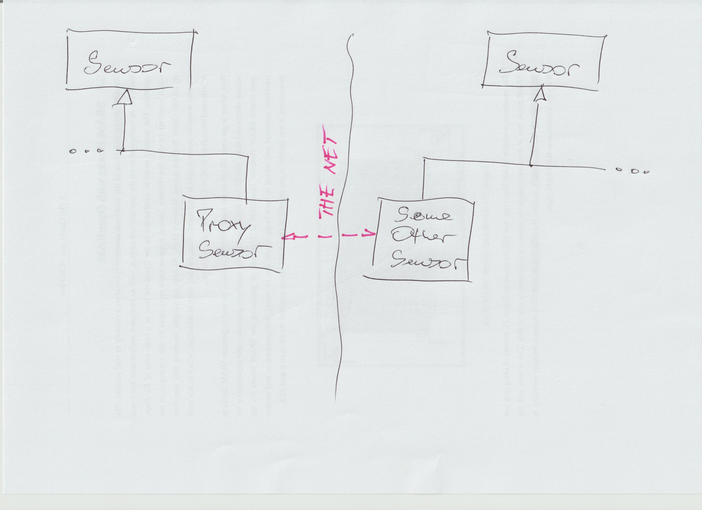
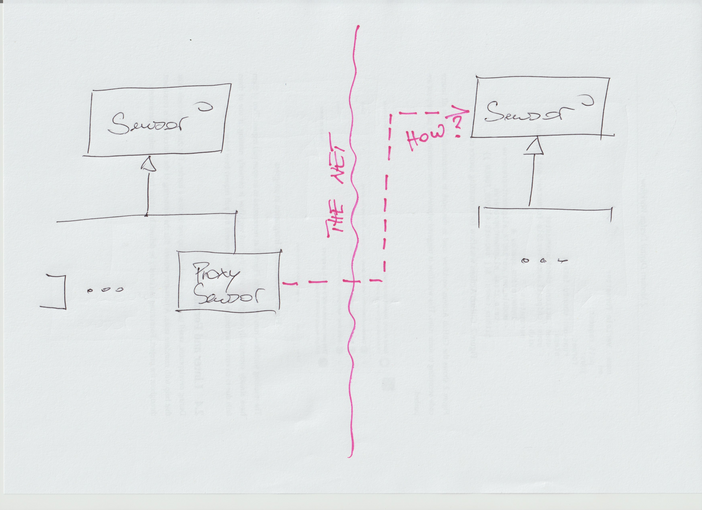
design patterns: describe sensor hierarchy,fix adapter

diff --git a/trainings/material/soup/cxx-design-patterns/exercises/code/tests/adapter-suite.cpp b/trainings/material/soup/cxx-design-patterns/exercises/code/tests/adapter-suite.cpp
@@ -1,18 +1,18 @@
 #include <gtest/gtest.h>
 
 #include <sensor-A.h>          // <--- company A's sensor interface
-#include <sensor-A-adapt-B.h>  // <--- to be implemented
-#include <sensor.h>            // <--- company B's sensor interface
-#include <sensor-const.h>      // <--- company B's most sophisticated sensor
+#include <sensor-A-const.h>    // <--- one of their sensors
+#include <sensor-A-adapter.h>  // <--- to be implemented
+#include <sensor.h>            // <--- our sensor interface
 
 TEST(adapter_suite, basic)
 {
-    // buy most sophisticated sensor from B, and see if it works
-    ConstantSensor sensor_from_b(36.5);
-    ASSERT_FLOAT_EQ(sensor_from_b.get_temperature(), 36.5);
+    // buy most sophisticated sensor from A, and see if it works
+    AConstantSensor sensor_from_a(36.5);
+    ASSERT_FLOAT_EQ(sensor_from_a.get_temperature_fahrenheit(), 36.5);
 
-    // adapt it into A's framework, converting its Celsius measurement
-    // into Fahrenheit
-    SensorB_Adapter b_adapter(&sensor_from_b);
-    ASSERT_FLOAT_EQ(b_adapter.get_temperature(), 36.5 * 5/9 + 32);
+    // adapt it into our hierarchy, converting its Fahrenheit
+    // measurement into Celsius
+    ASensor_Adapter a_adapter(&sensor_from_a);
+    ASSERT_FLOAT_EQ(a_adapter.get_temperature(), (36.5 - 32) * 5/9);
 }

diff --git a/trainings/material/soup/cxx-design-patterns/exercises/code/library/sensor-A-adapter.h b/trainings/material/soup/cxx-design-patterns/exercises/code/library/sensor-A-adapter.h
@@ -1,0 +1,21 @@
+#pragma once
+
+#include "sensor-A.h"
+#include "sensor.h"
+
+#include <memory>
+
+
+class ASensor_Adapter : public Sensor
+{
+public:
+    ASensor_Adapter(ASensor* adaptee) : _adaptee(adaptee) {}
+    double get_temperature()
+    {
+        double fahrenheit = _adaptee->get_temperature_fahrenheit();
+        return (fahrenheit -32) * 5/9;
+    }
+
+private:
+    ASensor* _adaptee;
+};

diff --git a/trainings/material/soup/cxx-design-patterns/exercises/code/library/sensor-A-const.h b/trainings/material/soup/cxx-design-patterns/exercises/code/library/sensor-A-const.h
@@ -1,0 +1,21 @@
+#pragma once
+
+#include "sensor-A.h"
+
+
+class AConstantSensor : public ASensor
+{
+public:
+    AConstantSensor(double value)
+    : _value(value) {}
+
+    double value() const { return _value; }
+
+    virtual double get_temperature_fahrenheit()
+    {
+        return _value;
+    }
+
+private:
+    double _value;
+};

diff --git a/trainings/material/soup/cxx-design-patterns/exercises/code/library/sensor-A.h b/trainings/material/soup/cxx-design-patterns/exercises/code/library/sensor-A.h
@@ -1,10 +1,8 @@
 #pragma once
 
-class SensorA
+class ASensor
 {
 public:
-    virtual ~SensorA() {}
-
-    // returns degrees Fahrenheit
-    virtual double get_temperature() = 0;
+    virtual ~ASensor() {}
+    virtual double get_temperature_fahrenheit() = 0;
 };

diff --git a/trainings/material/soup/cxx-design-patterns/adapter.rst b/trainings/material/soup/cxx-design-patterns/adapter.rst
@@ -1,6 +1,7 @@
 .. ot-topic:: cxx_design_patterns.adapter
    :dependencies: cxx03.inheritance_oo.interface,
-		  cxx_design_patterns.uml
+		  cxx_design_patterns.uml,
+		  cxx_design_patterns.sensor_hierarchy
 
 .. include:: <mmlalias.txt>
 
@@ -14,28 +15,30 @@ Adapter
 Problem
 -------
 
-* Company A has a large application, employing sensors that measure
-  temperature in degrees Fahrenheit
+The sensor hierarchy of our company covers many different
+sensor. However, management has decided that it is not broad enough,
+and some sensors of company A need to be added. Company A has software
+implementations for those sensors that we could technically use. It
+does not fit into our hierarchy, naturally [#impedance_mismatch]_.
 
-  .. literalinclude:: exercises/code/library/sensor-A.h
-     :caption: :download:`exercises/code/library/sensor-A.h`
-     :language: c++
+What they have, though, is a similar hierarchy (one interface for all
+their sensors), with the only apparent difference being that they
+measure in degrees Fahrenheit.
 
-* Company B sells sensors that measure temperature, in degrees
-  celsius. (The measurement method, by the way, is named the same as
-  company A's: ``get_temperature()``.)
+.. image:: sensor-hierarchy-company-A.png
+   :scale: 40%
 
-  .. literalinclude:: exercises/code/library/sensor.h
-     :caption: :download:`exercises/code/library/sensor.h`
-     :language: c++
-
-* Company A wishes to make use of B's sensors, but does not want to
-  rewrite their entire application.
+.. literalinclude:: exercises/code/library/sensor-A.h
+   :caption: :download:`exercises/code/library/sensor-A.h`
+   :language: c++
 
 Solution
 --------
 
-.. image:: adapter.png
+Seems like we could be able to integrate all of their sensors in one
+swoop, *easily*.
+
+.. image:: sensor-a-adapter.png
    :scale: 40%
 
 Exercise
@@ -43,3 +46,8 @@ Exercise
 
 :doc:`exercises/adapter`
 
+
+.. rubric:: Footnotes
+.. [#impedance_mismatch] They sure don't share our ``Sensor``
+                         interface. That interface is only internal to
+                         our company.

diff --git a/trainings/material/soup/cxx-design-patterns/sensor-hierarchy.rst b/trainings/material/soup/cxx-design-patterns/sensor-hierarchy.rst
@@ -1,0 +1,43 @@
+.. ot-topic:: cxx_design_patterns.sensor_hierarchy
+   :dependencies: cxx03.inheritance_oo.interface,
+		  cxx_design_patterns.uml
+
+.. include:: <mmlalias.txt>
+
+
+Exercise Foundation: ``Sensor`` Hierarchy
+=========================================
+
+.. contents::
+   :local:
+
+Hypothetical
+------------
+
+We are an organization that sits on a large pile of software. Sensors,
+*temperature* sensors actually, are fundamental in that pile, and
+there are many sensor implementations around. All are organized in a
+class hierarchy, starting at an abstract base class (an
+:doc:`interface
+</trainings/material/soup/cxx03/100-inheritance-oo-design/group>`):
+
+.. literalinclude:: exercises/code/library/sensor.h
+   :caption: :download:`exercises/code/library/sensor.h`
+   :language: c++
+
+Two concrete implementations of such sensors that we will use in the
+exercise series in this course are:
+
+* :download:`RandomSensor
+  <exercises/code/library/sensor-random.h>`. That sensor yields
+  floating point random numbers in a configurable range.
+* :download:`ConstantSensor
+  <exercises/code/library/sensor-const.h>`. That one yield always the
+  same temperature. Cool for testing.
+
+We will extend that hierarchy along with the exercises.
+  
+Class Hierarchy
+---------------
+
+.. image:: sensor-hierarchy.png

diff --git a/trainings/material/soup/cxx-design-patterns/exercises/interpreter-and-adapter.rst b/trainings/material/soup/cxx-design-patterns/exercises/interpreter-and-adapter.rst
@@ -1,6 +1,7 @@
 .. ot-exercise:: cxx_design_patterns.exercises.interpreter_and_adapter
    :dependencies: cxx_design_patterns.adapter,
-		  cxx_design_patterns.interpreter
+		  cxx_design_patterns.interpreter,
+		  cxx_design_patterns.sensor_hierarchy
 
 .. include:: <mmlalias.txt>
 
@@ -17,10 +18,10 @@ Motivation
 In :doc:`interpreter` we created a clas hierarchy to do arithmetic
 calculations, based on literals and variables - *values*, all in all.
 
-The venerable ``Sensor`` hierarchy that we used in :doc:`adapter` and
-in :doc:`proxy-round`, for example, contains a number of classes (to
-be extended by real-world sensors one day), that also provide
-*values*.
+The venerable ``Sensor`` :doc:`hierarchy <../sensor-hierarchy>` that
+we used in :doc:`adapter` and in :doc:`proxy-round`, for example,
+contains a number of classes (to be extended by real-world sensors one
+day), that also provide *values*.
 
 Why not use a sensor as an ``Expression``?
 

diff --git a/trainings/material/soup/cxx-design-patterns/group.rst b/trainings/material/soup/cxx-design-patterns/group.rst
@@ -35,6 +35,7 @@ Topics
    uml
    oo-principles
    singleton
+   sensor-hierarchy
    adapter
    proxy
    decorator
@@ -54,11 +55,9 @@ To Be Done
 
 * Move exercises into main pages
 * Command with MTQueue
-* Fix proxy: proxy class points to interface, not to concrete class
 * Clarify adapter!
 * Pattern Catalog: Structural, Behavioral, Creational
 * Interpreter: description in main page
-* Heating case study
 
 * Course preparation page
 

diff --git a/trainings/material/soup/cxx-design-patterns/exercises/proxy-remote.rst b/trainings/material/soup/cxx-design-patterns/exercises/proxy-remote.rst
@@ -1,7 +1,8 @@
 .. ot-exercise:: cxx_design_patterns.exercises.proxy_remote
    :dependencies: cxx_design_patterns.proxy,
 		  cxx_design_patterns.exercises.adapter,
-		  cxx_design_patterns.uml
+		  cxx_design_patterns.uml,
+		  cxx_design_patterns.sensor_hierarchy
 
 
 Exercise: Proxy (Remote Thermometer)

diff --git a/trainings/material/soup/cxx-design-patterns/exercises/abstract-factory.rst b/trainings/material/soup/cxx-design-patterns/exercises/abstract-factory.rst
@@ -1,7 +1,8 @@
 .. ot-exercise:: cxx_design_patterns.exercises.abstract_factory
    :dependencies: cxx03.inheritance_oo.interface,
 		  cxx_design_patterns.singleton,
-		  cxx_design_patterns.uml
+		  cxx_design_patterns.uml,
+		  cxx_design_patterns.sensor_hierarchy
 
 .. include:: <mmlalias.txt>
 

diff --git a/trainings/material/soup/cxx-design-patterns/exercises/decorator.rst b/trainings/material/soup/cxx-design-patterns/exercises/decorator.rst
@@ -1,7 +1,8 @@
 .. ot-exercise:: cxx_design_patterns.exercises.decorator
    :dependencies: cxx_design_patterns.exercises.adapter,
 		  cxx_design_patterns.decorator,
-		  cxx_design_patterns.uml
+		  cxx_design_patterns.uml,
+		  cxx_design_patterns.sensor_hierarchy
 
 .. include:: <mmlalias.txt>
 

diff --git a/trainings/material/soup/cxx-design-patterns/exercises/composite.rst b/trainings/material/soup/cxx-design-patterns/exercises/composite.rst
@@ -1,7 +1,8 @@
 .. ot-exercise:: cxx_design_patterns.exercises.composite
    :dependencies: cxx_design_patterns.exercises.proxy_round,
 		  cxx_design_patterns.composite,
-		  cxx_design_patterns.uml
+		  cxx_design_patterns.uml,
+		  cxx_design_patterns.sensor_hierarchy
 
 
 Exercise: Composite
